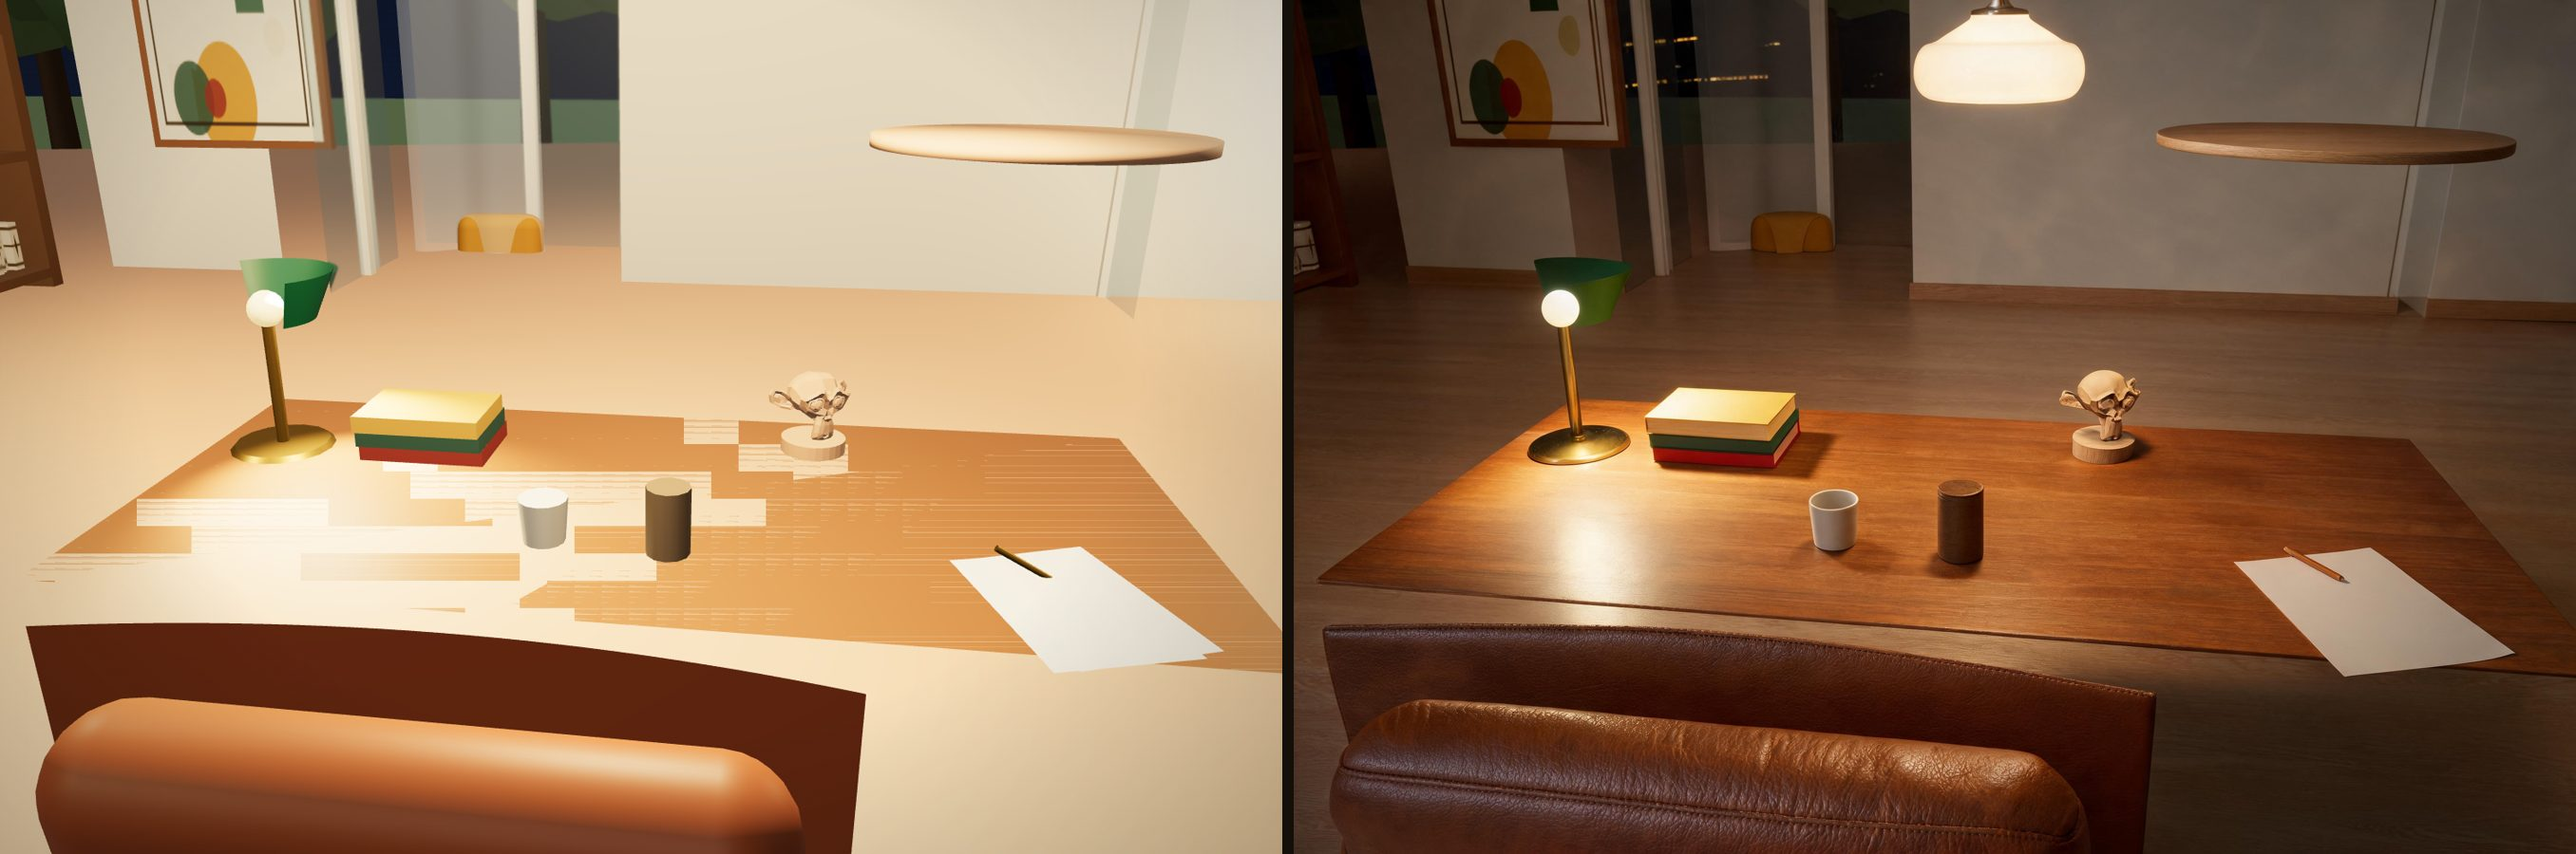
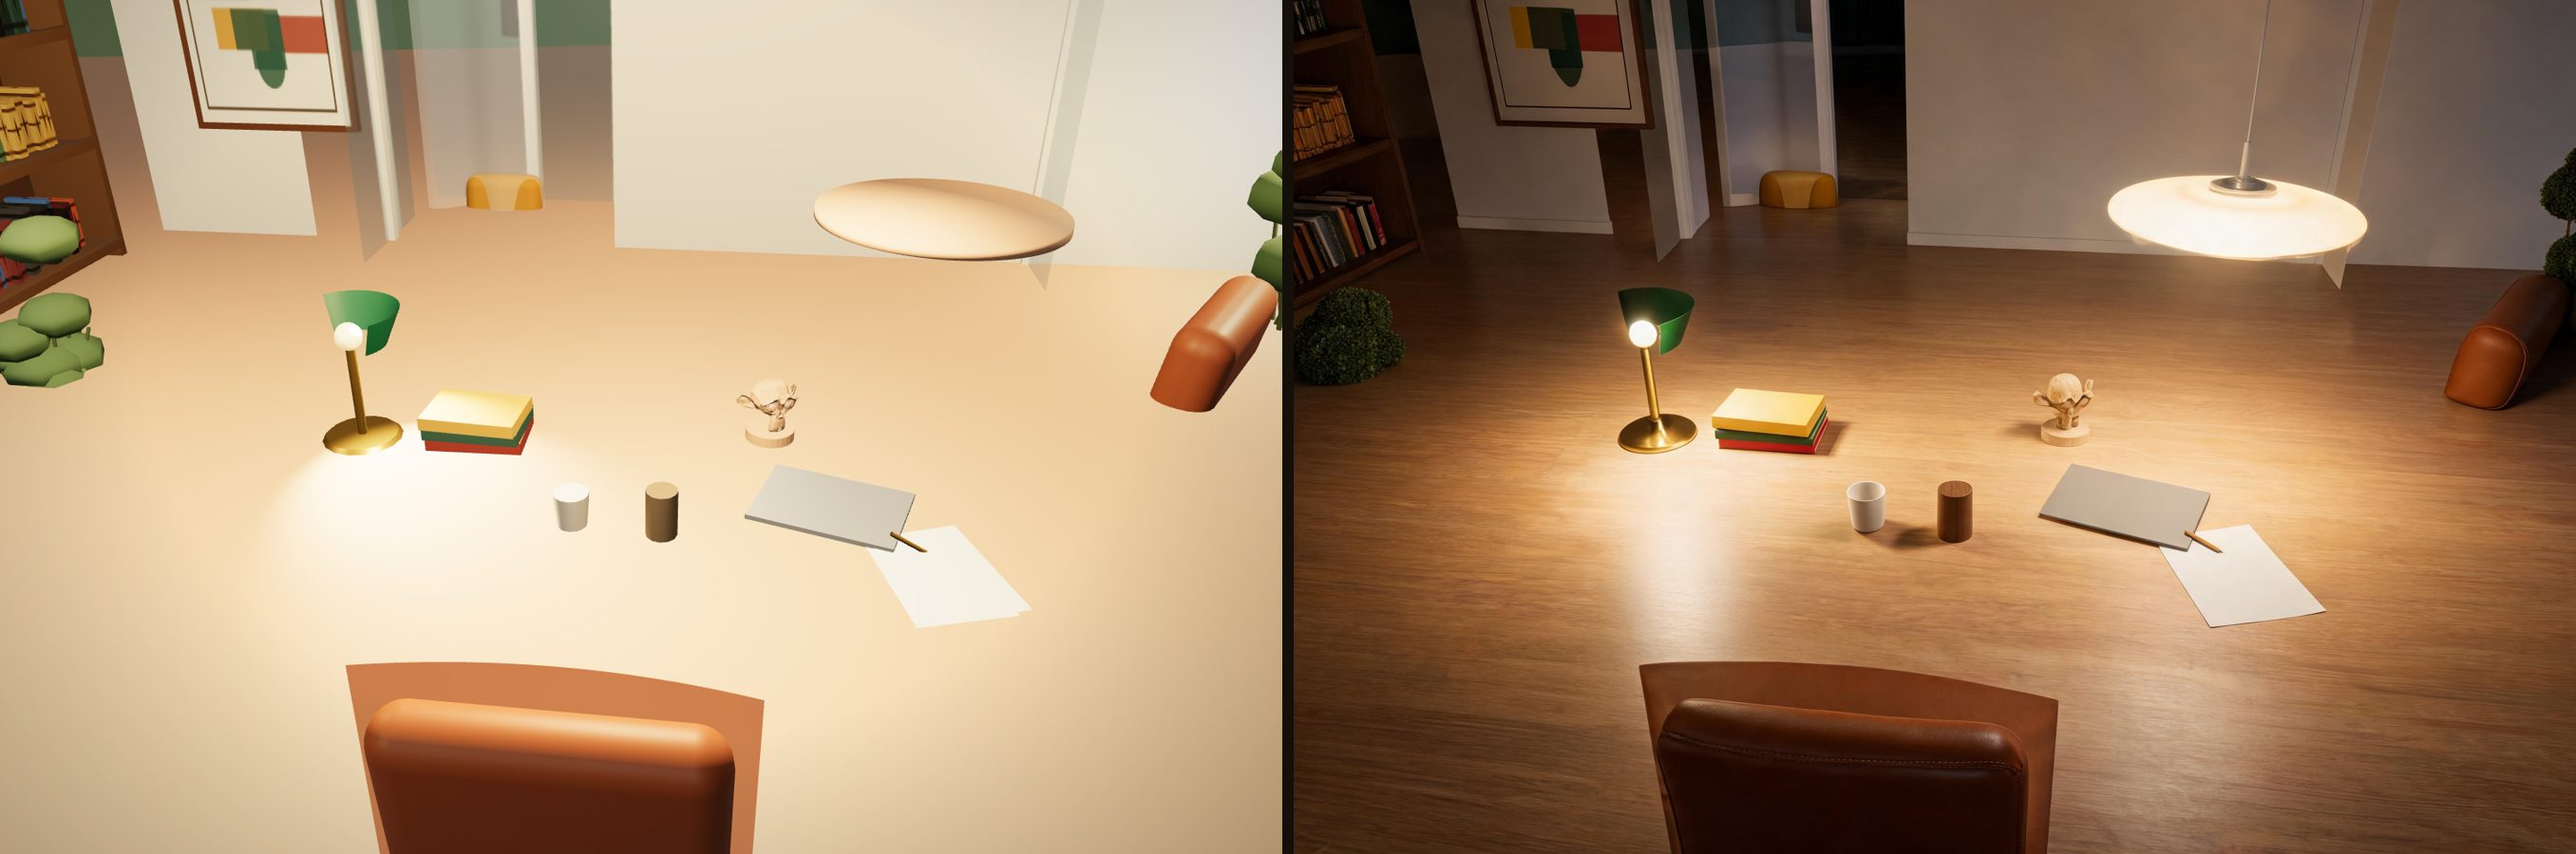
三风格地板/桌面色彩层次重整：地板提亮转灰、书桌加深上清漆，消除书桌与背景色块融合

diff --git a/index.html b/index.html
@@ -186,7 +186,7 @@ function mkPhys(c,o={}){ return new THREE.MeshPhysicalMaterial(Object.assign({co
 const SW = { wall:mkMat('#ece3d1'), trim:mkMat('#f2ecdd',{roughness:.9}),
   ceil:mkMat('#f4efe3'), floor:mkMat('#ffffff',{roughness:.72}),
   backP:mkMat('#5a3d23'),
-  deskW:mkMat('#8a5a33',{roughness:.6}), leather:mkMat('#96522b',{roughness:.5}),
+  deskW:mkPhys('#8a5a33',{roughness:.48,clearcoat:.18,clearcoatRoughness:.3}), leather:mkMat('#96522b',{roughness:.5}),
   cushion:mkMat('#caa06a',{roughness:.95}), throwM:mkMat('#b3562f',{roughness:.98}),
   rug:mkMat('#a34f2f',{roughness:.97}), rugS:mkMat('#e6dabd',{roughness:.97}),
   pil:[mkMat('#c8871f'),mkMat('#7d3b25'),mkMat('#31584a')],
@@ -194,16 +194,16 @@ const SW = { wall:mkMat('#ece3d1'), trim:mkMat('#f2ecdd',{roughness:.9}),
 SW.shelf = mkPhys('#6f4e2e',{roughness:.38,clearcoat:.22,clearcoatRoughness:.25});
 
 const PALETTES = {
- A:{wall:'#ece3d1',trim:'#f2ecdd',ceil:'#f4efe3',floor:'#9a6a42',
-    shelf:'#6f4e2e',backP:'#57391f',desk:'#8a5a33',leather:'#96522b',
+ A:{wall:'#ece3d1',trim:'#f2ecdd',ceil:'#f4efe3',floor:'#b08a5e',
+    shelf:'#6f4e2e',backP:'#57391f',desk:'#6a4120',leather:'#96522b',
     cushion:'#caa06a',throw:'#b3562f',rug:'#a34f2f',rugInk:'#efe3c8',
     pillows:['#c8871f','#7d3b25','#31584a'],baySeat:'#8a5f36',rugS:'#caa06a'},
- B:{wall:'#f2ead9',trim:'#faf5ea',ceil:'#f8f3e7',floor:'#c39a69',
-    shelf:'#b78857',backP:'#a17244',desk:'#b98a5c',leather:'#bb8250',
+ B:{wall:'#f2ead9',trim:'#faf5ea',ceil:'#f8f3e7',floor:'#d1b28c',
+    shelf:'#b78857',backP:'#a17244',desk:'#9c6f42',leather:'#bb8250',
     cushion:'#eee2cb',throw:'#d9b98c',rug:'#ded0b4',rugInk:'#a9784b',
     pillows:['#e5d3ae','#b98a5c','#93a687'],baySeat:'#bd9260',rugS:'#e2d2b0'},
- C:{wall:'#e6dfd0',trim:'#efe9da',ceil:'#f1ece0',floor:'#6f4e33',
-    shelf:'#503a28',backP:'#26483e',desk:'#5f4630',leather:'#2e5145',
+ C:{wall:'#e6dfd0',trim:'#efe9da',ceil:'#f1ece0',floor:'#9a7a55',
+    shelf:'#503a28',backP:'#26483e',desk:'#41301f',leather:'#2e5145',
     cushion:'#d8c9a8',throw:'#c9a136',rug:'#83362b',rugInk:'#caa96a',
     pillows:['#c9972c','#e8dcc4','#83362b'],baySeat:'#4e3826',rugS:'#b08a5e'} };
 
